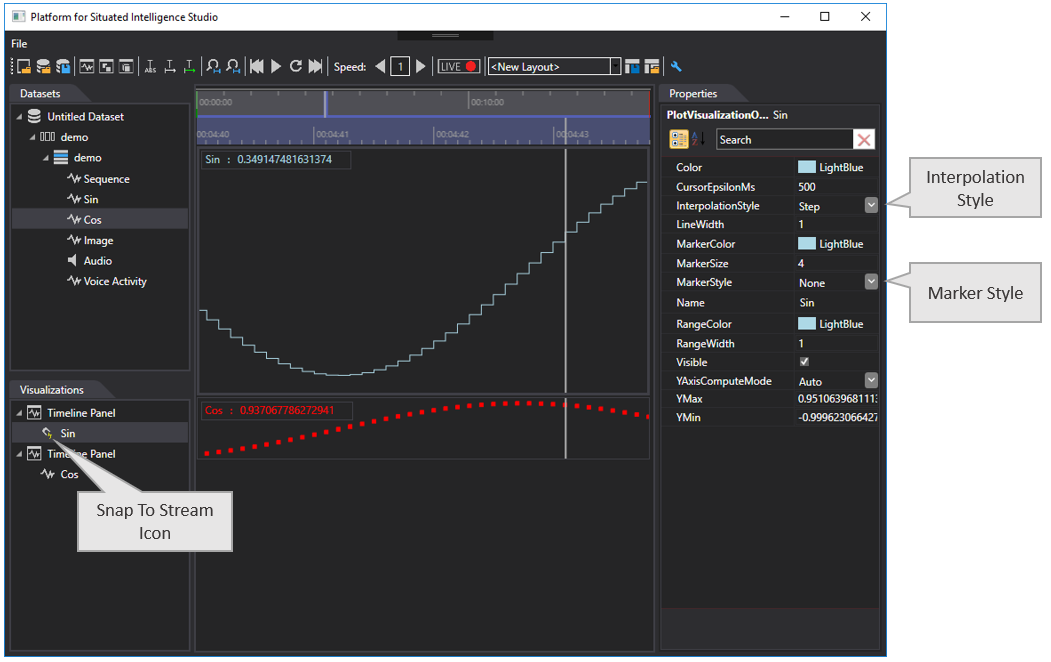
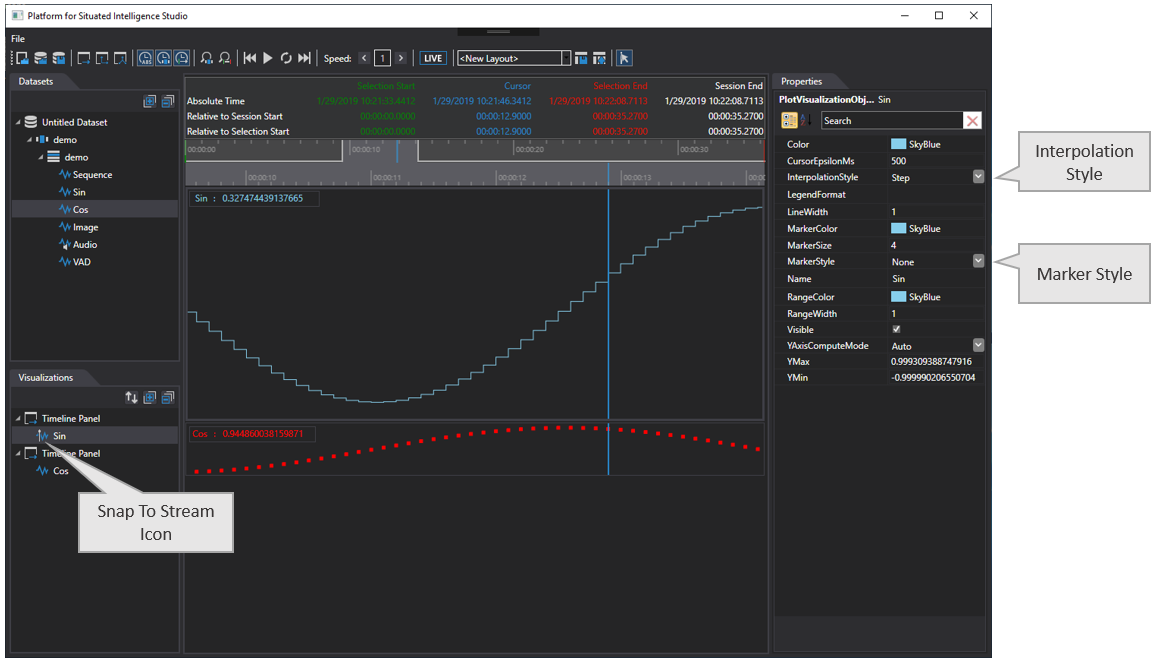
Updates for release 0.9.6.1

Changed region(s): [[0.0, 0.0, 1.0, 0.997], [0.6089, 0.9668, 0.6698, 0.997], [0.6089, 0.6647, 0.6698, 0.6949]]

diff --git a/Brief-Introduction.md b/Brief-Introduction.md
@@ -354,7 +354,7 @@ On the toolbar are three _Timing Display_ buttons that can be used to display ti
 
 You can also change how a stream is rendered.  In the picture below the Interpolation Style property of the Sin stream has been changed to _Step_ which renders the stream so that it maintains its current value until the next message is received.  For the Cos stream the Interpolation Style property has been changed to _None_ so that only the values of the messages are displayed and no connecting lines are drawn between them.  When using this valule for Interpolation Style the Marker Style property must be changed to something other than _None_ or nothing at all will be rendered.  Notice in the picture below that the Visualization Panel for the Sin stream has been resized by dragging its bottom edge in order to get a better view of the data.
 
-Notice also that _Snap to Stream_ has been enabled on the Sin stream so that the Cursor always snaps to the message nearest to the mouse.  If one or more of the timing displays is activated, then the user can find the exact time of any message in the stream by moving the cursor near it.  To enable _Snap to Stream_, right-click the stream you wish to snap to in the Visualizations tab and select _Snap to Stream_ in the context menu.  The stream that is currently being snapped to will display an additional magnet icon next to it in the Visualizations tab.  To cancel _Snap to Stream_, right-click the stream in the Visualizations tab and again select the _Snap to Stream_ menu item.
+Notice also that _Snap to Stream_ has been enabled on the Sin stream so that the Cursor always snaps to the message nearest to the mouse.  If one or more of the timing displays is activated, then the user can find the exact time of any message in the stream by moving the cursor near it.  To enable _Snap to Stream_, right-click the stream you wish to snap to in the Visualizations tab and select _Snap to Stream_ in the context menu.  The stream that is currently being snapped to will display a slightly different icon next to it in the Visualizations tab.  To cancel _Snap to Stream_, right-click the stream in the Visualizations tab and again select the _Snap to Stream_ menu item.
 
 ![PsiStudio (Interpolation Style)](PsiStudio.InterpolationStyle.png)
 
@@ -390,13 +390,13 @@ Since you just restarted your \\psi application, it's generating a new dataset i
 
 ![PsiStudio (Live Store)](PsiStudio.OpenLiveStore.png)
 
-We now have two sessions loaded, the previous session (which we can tell is the session being displayed in the Visualizations area because all of the tree nodes under it are white), and the new Live session. Notice that PsiStudio detected that the store that we opened was live, and it added a _Live_ icon next to the partition name and all of the streams in that parition.  Notice also that it generated a new name for the session _demo_1_ to ensure that all sessions in our dataset have unique names.
+We now have two sessions loaded, the previous session (which we can tell is the session being displayed in the Visualizations area because all of the tree nodes under it are lit up), and the new Live session which is currently displayed dimmed as it's not the current session being visualized.  Notice that PsiStudio generated a new name for the session _demo_1_ to ensure that all sessions in our dataset have unique names.
 
 To switch to visualizing the live session, right-click on the _demo_1_ session and from the context menu select _Visualize Session_.
 
 After PsiStudio switched to the new session it automatically rebound all of the visualizers in the Visualizations area to the streams in the new session.
 
-Because we've switched to visualizing a live session, PsiStudio pressed the _LIVE_ Button on your behalf to set the cursor mode to _Live_. Also notice that in this mode the timeline is automatically scrolling to keep up with new messages being written to the store.
+Because we've switched to visualizing a live session, PsiStudio pressed the _LIVE_ Button on your behalf to set the cursor mode to _Live_. Also notice that in this mode the timeline is automatically scrolling to keep up with new messages being written to the store.  Notice also that the blue details of the Partition and Stream icons of a live partition are highlighted in bright blue, regular partitions and streams are rendered with a darker blue color.
 
 PsiStudio will monitor this partition so that any new streams that the app writes will be automatically added to the _Datasets_ tree view. PsiStudio will also detect when your \\psi application stops writing to the store and will switch the cursor mode from _Live_ mode back to _Manual_ mode, and the _Live_ icons next to the streams will disappear.
 

diff --git a/Release-Notes.md b/Release-Notes.md
@@ -1,3 +1,32 @@
+## __2019/07/18: Beta-release, version 0.9.6.1__
+
+### OVERVIEW:
+
+The main highlights in this release are:
+
+* A major refresh of the `Platform for Situated Intelligence Studio` user interface, including a new color scheme, updated icons, and new functionality.
+
+### Details of Changes to Documentation:
+
+* The installation documentation has been updated to detail how to build the \psi codebase on Windows (using either Visual Studio 2017 or 2019), or on Linux.
+
+### Details of Changes to Platform for Situated Intelligence Studio:
+
+* Updated the look and feel of the user interface, including new colors and icons.
+* The `Datasets` treeview and the `Visualizations` treeview now feature `Expand All` and `Collapse All` buttons to fully expand and collapse the tree.
+* The `Visualizations` treeview now contains a new button to synchronize between it and the `Datasets` treeview.  When a stream in the `Visualizations` treeview is selected, clicking this button will select the source stream in the `Datasets` treeveiw and bring it into view.  This feature is useful for those times when you forget exactly which source stream a visualization is depicting.
+* When in `Live` cursor mode, the timing information for the selection start and end markers is now not displayed as this information is irrelevent when in live mode.
+* Added new context menu item `Zoom to Stream Extents` to streams in the `Visualizations` tree view.
+* Added new context menu item `Zoom to Panel Extents` to panels in the `Visualizations` tree view.
+
+### Bug Fixes:
+
+* Fixed a bug in the `Join` operator that made it not correctly take into account open relative time intervals. See [this issue](https://github.com/microsoft/psi/issues/27).
+* Fixed bug in the `Diagnostics` visualizer where connectors between subpipelines were being incorrectly rendered.
+* Fixed bug in the `Diagnostics` visualizer that would cause it to crash if it encountered messages with unserializable fields.  We now return 0 for the size of such messages.
+* Fixed bug in `Rodrigues` method in the `Orientation` class of `Microsoft.Psi.Kinect.Windows`.  This method was returning an NaN rotation matrix when passed a zero rotation vector, it now returns an identity matrix instead.
+
+
 ## __2019/07/03: Beta-release, version 0.8.32.1__
 
 **IMPORTANT NOTE:**

diff --git a/Building-the-Codebase.md b/Building-the-Codebase.md
@@ -34,6 +34,12 @@ The older [Visual Studio 2017](https://visualstudio.microsoft.com/vs/older-downl
 
 The [Windows 10 SDK (10.0.18362.0)](https://developer.microsoft.com/en-US/windows/downloads/windows-10-sdk) is not included as an Individual Component with VS _2017_ and must be installed separately.
 
+__Required prerequisites for PsiStudio__:
+
+In order to run PsiStudio, the Windows-only visualization tool, the following component must be installed.
+
+* __Kinect for Windows Runtime 2.0__: this SDK can be downloaded from the [Microsoft Download Center](https://www.microsoft.com/en-us/download/confirmation.aspx?id=44559) and is required for PsiStudio to function correctly, even if you don't intend to use the Kinect sensor in your \psi applications.
+
 __Optional prerequisites__:
 
 A couple of the projects in the Platform for Situated Intelligence codebase have install prerequisites. If you want to build these projects as part of the solution, you will need to install the prerequisites below. If the prerequisites are not found, these projects will not be build (the rest of the solution will build correctly.)
